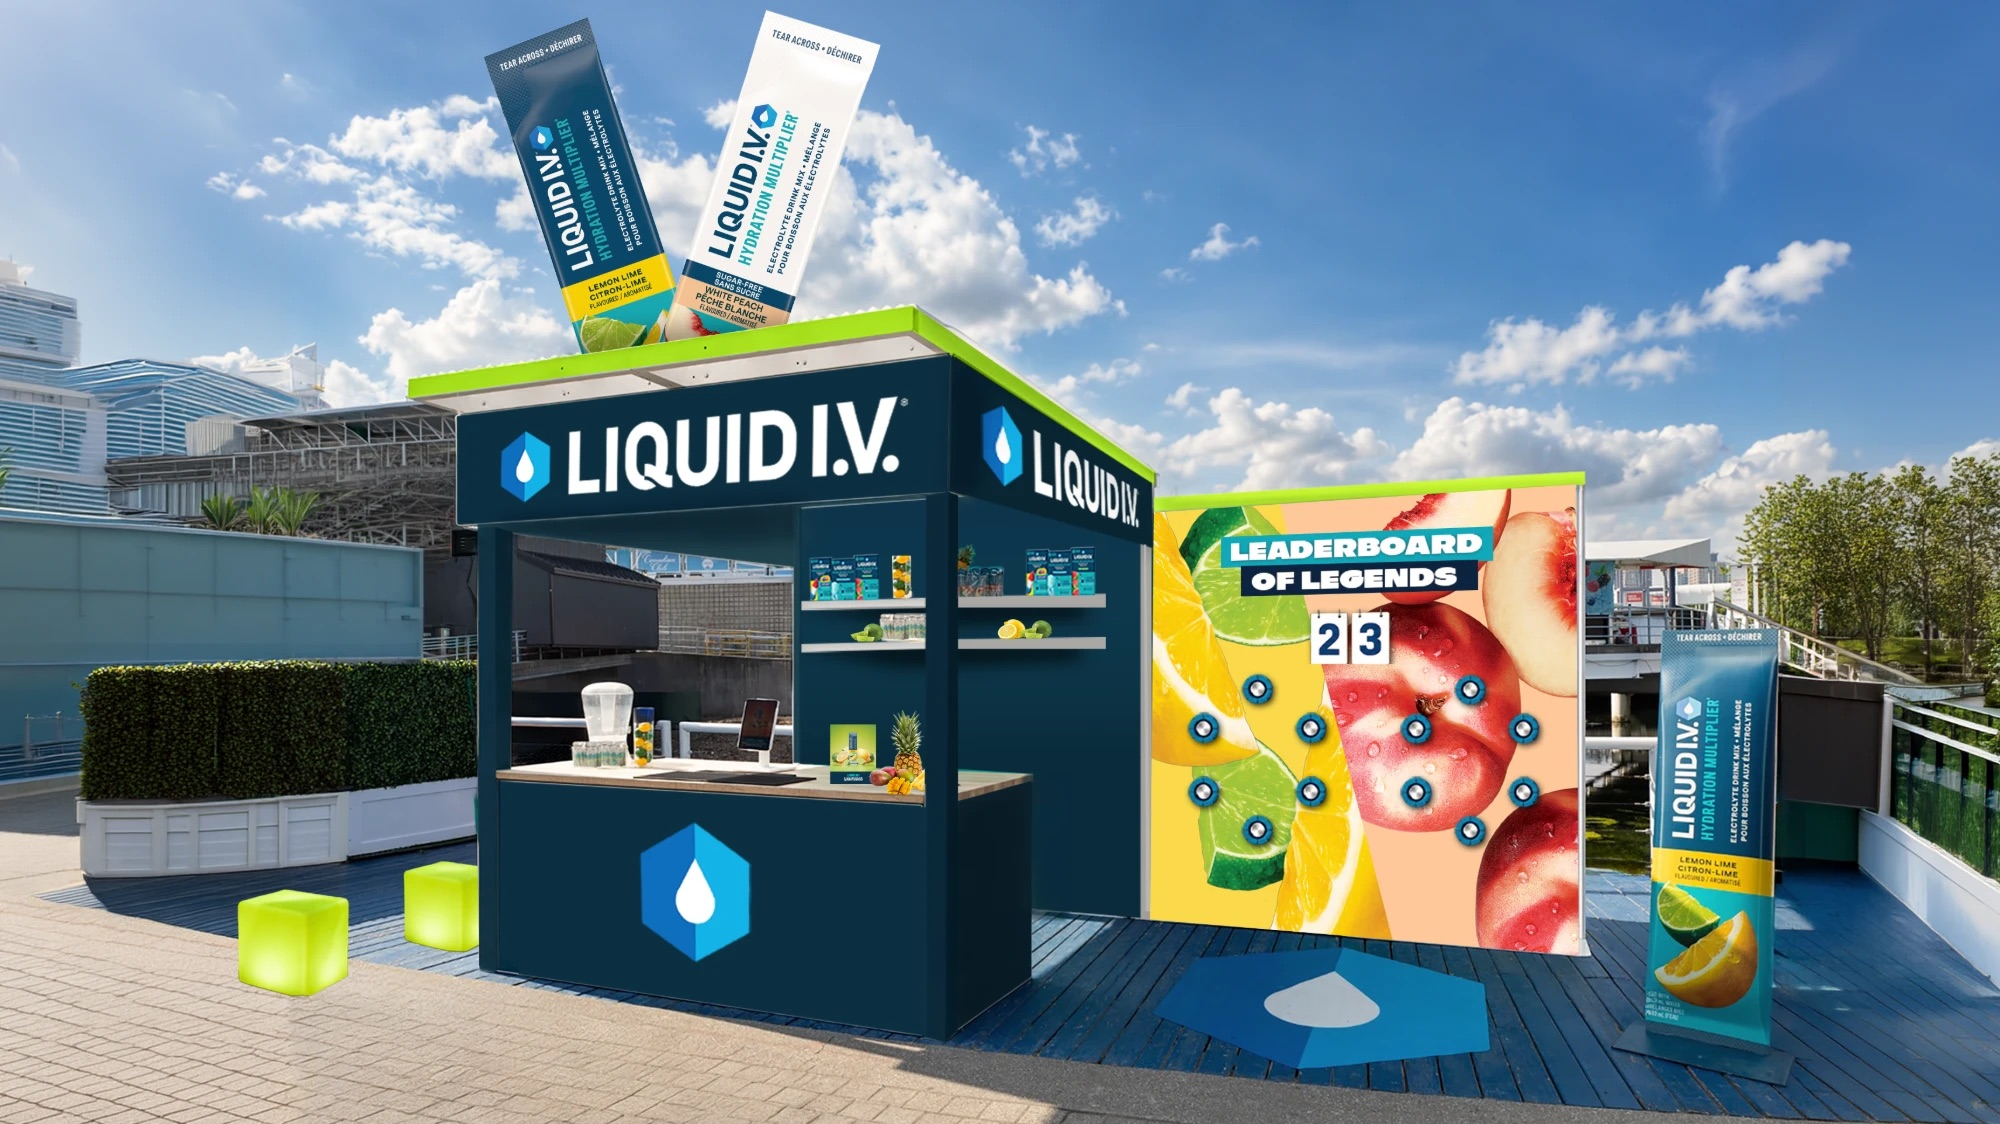
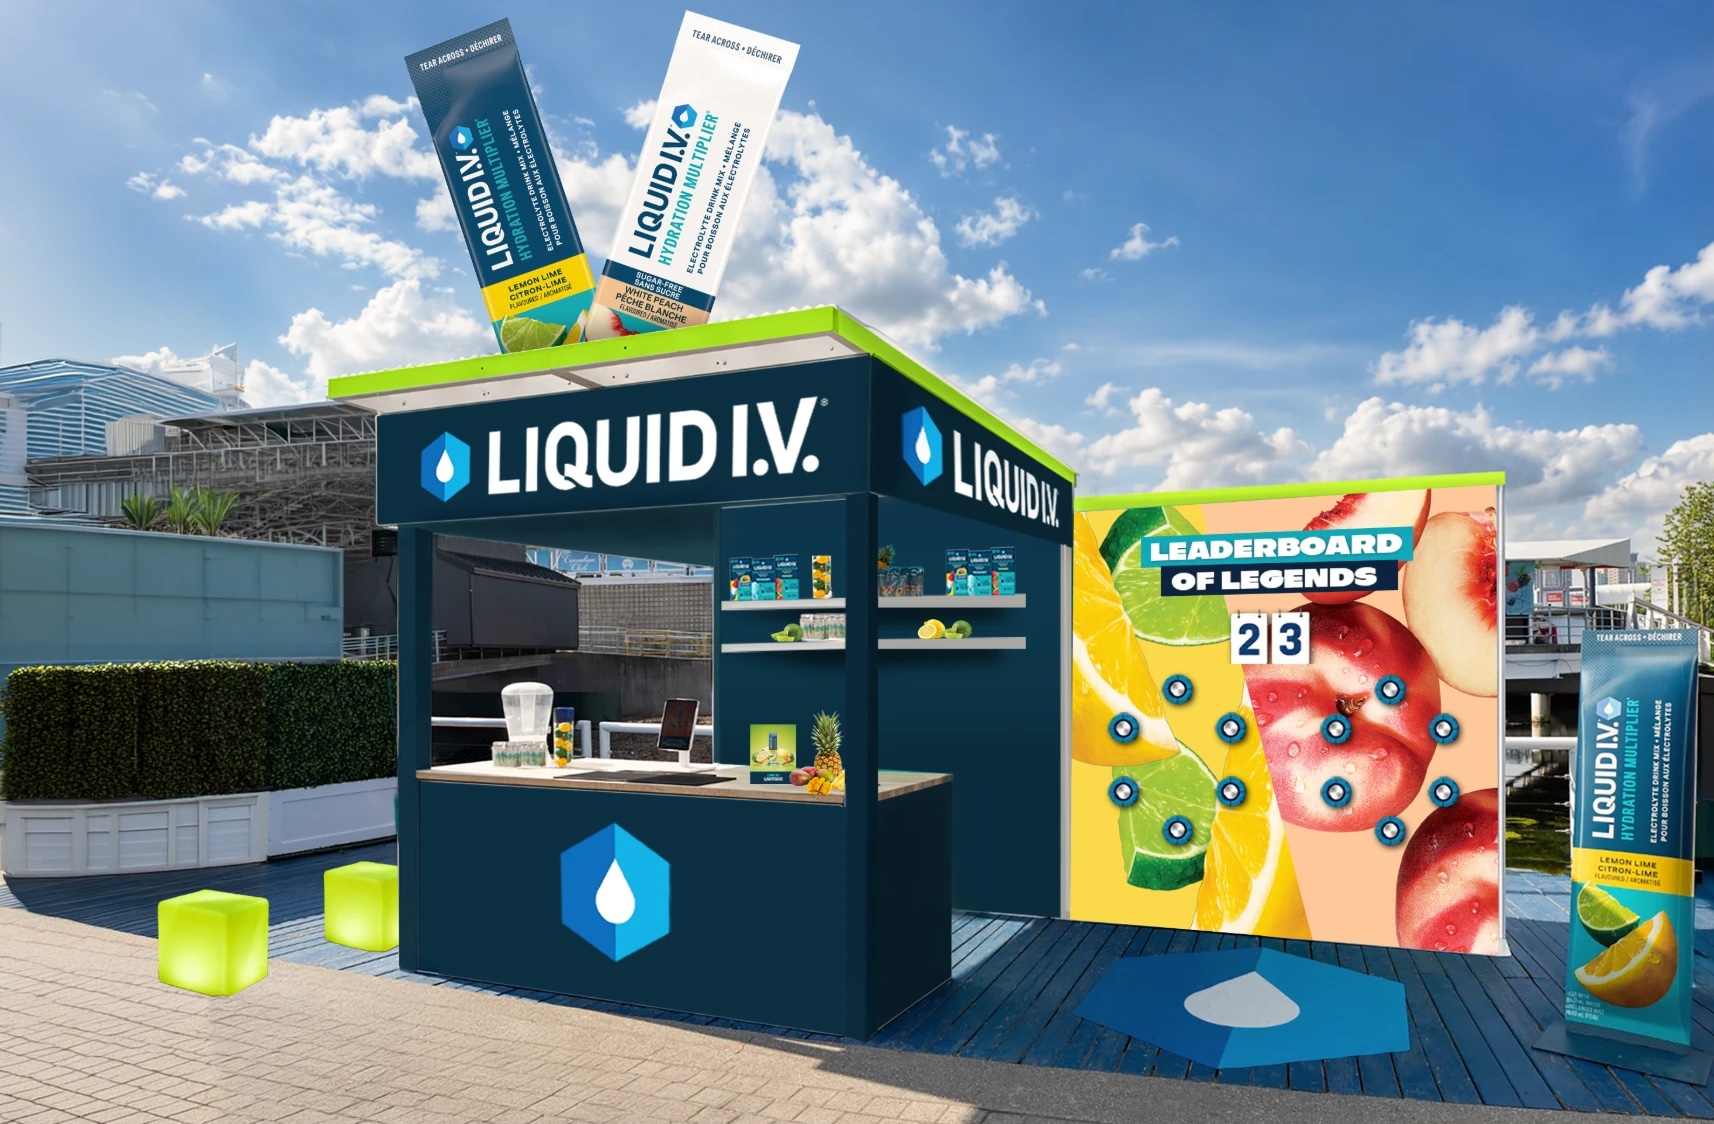
Agency + Client Work: tighter crops on the Powerade and Liquid I.V. images

diff --git a/agency-client-work.html b/agency-client-work.html
@@ -389,11 +389,11 @@
 
   <!-- Floating tiles: positions and sizes are set in TILES in _build/build.rb -->
   <div class="field">
-<div class="ft" style="--l:5%; --t:4vw; --w:30vw; --h:16.80vw; --ar:1.786; --tone:#c4c4c4; --ox:0%; --cx:0; --cy:1; --dur:6s; --del:-0s; --dx:-8px; --dy:12px">
+<div class="ft" style="--l:5%; --t:4vw; --w:30vw; --h:18.39vw; --ar:1.631; --tone:#c4c4c4; --ox:0%; --cx:0; --cy:1; --dur:6s; --del:-0s; --dx:-8px; --dy:12px">
   <div class="pic" style="background-image:url('images/agency/powerade-tent.jpg')" role="img" aria-label="Powerade Power Water"></div>
   <div class="cap"><b>Powerade Power Water</b><p>Lorem ipsum dolor sit amet, consectetur adipiscing elit. Sed do eiusmod tempor incididunt ut labore et dolore magna aliqua.</p></div>
 </div>
-<div class="ft r" style="--l:62%; --t:2vw; --w:19vw; --h:13.97vw; --ar:1.360; --tone:#bdbdbd; --ox:50%; --cx:-.225; --cy:1; --dur:8s; --del:-3s; --dx:6px; --dy:-10px">
+<div class="ft r" style="--l:64%; --t:2vw; --w:15vw; --h:14.59vw; --ar:1.028; --tone:#bdbdbd; --ox:50%; --cx:-.225; --cy:1; --dur:8s; --del:-3s; --dx:6px; --dy:-10px">
   <div class="pic" style="background-image:url('images/agency/powerade-sign.jpg')" role="img" aria-label="Powerade Power Water"></div>
   <div class="cap"><b>Powerade Power Water</b><p>Lorem ipsum dolor sit amet, consectetur adipiscing elit. Sed do eiusmod tempor incididunt ut labore et dolore magna aliqua.</p></div>
 </div>
@@ -413,7 +413,7 @@
   <div class="pic" style="background-image:url('images/agency/tresemme.jpg')" role="img" aria-label="TRESemmé"></div>
   <div class="cap"><b>TRESemmé</b><p>Lorem ipsum dolor sit amet, consectetur adipiscing elit. Sed do eiusmod tempor incididunt ut labore et dolore magna aliqua.</p></div>
 </div>
-<div class="ft r" style="--l:69%; --t:78vw; --w:23vw; --h:15.33vw; --ar:1.500; --tone:#c9c9c9; --ox:100%; --cx:-.45; --cy:1; --dur:8s; --del:-4s; --dx:-5px; --dy:16px">
+<div class="ft r" style="--l:69%; --t:78vw; --w:23vw; --h:17.35vw; --ar:1.325; --tone:#c9c9c9; --ox:100%; --cx:-.45; --cy:1; --dur:8s; --del:-4s; --dx:-5px; --dy:16px">
   <div class="pic" style="background-image:url('images/agency/liquid-iv-kiosk.jpg')" role="img" aria-label="Liquid I.V."></div>
   <div class="cap"><b>Liquid I.V.</b><p>Lorem ipsum dolor sit amet, consectetur adipiscing elit. Sed do eiusmod tempor incididunt ut labore et dolore magna aliqua.</p></div>
 </div>
@@ -421,7 +421,7 @@
   <div class="pic" style="background-image:url('images/agency/liquid-iv-headliner.jpg')" role="img" aria-label="Liquid I.V."></div>
   <div class="cap"><b>Liquid I.V.</b><p>Lorem ipsum dolor sit amet, consectetur adipiscing elit. Sed do eiusmod tempor incididunt ut labore et dolore magna aliqua.</p></div>
 </div>
-<div class="ft r" style="--l:39%; --t:106vw; --w:26vw; --h:14.61vw; --ar:1.779; --tone:#c4c4c4; --ox:50%; --cx:-.225; --cy:1; --dur:7s; --del:-3s; --dx:-8px; --dy:12px">
+<div class="ft r" style="--l:39%; --t:106vw; --w:26vw; --h:17.05vw; --ar:1.525; --tone:#c4c4c4; --ox:50%; --cx:-.225; --cy:1; --dur:7s; --del:-3s; --dx:-8px; --dy:12px">
   <div class="pic" style="background-image:url('images/agency/liquid-iv-booth-render.jpg')" role="img" aria-label="Liquid I.V."></div>
   <div class="cap"><b>Liquid I.V.</b><p>Lorem ipsum dolor sit amet, consectetur adipiscing elit. Sed do eiusmod tempor incididunt ut labore et dolore magna aliqua.</p></div>
 </div>

diff --git a/_build/build.rb b/_build/build.rb
@@ -459,15 +459,15 @@ end
 LOREM = 'Lorem ipsum dolor sit amet, consectetur adipiscing elit. Sed do eiusmod tempor incididunt ut labore et dolore magna aliqua.'
 TILES = [
   # [left %, top vw, width vw, picture (in images/agency), width px, height px, title, description]
-  [ 5,   4, 30, 'powerade-tent.jpg',          2000, 1120, 'Powerade Power Water'],
-  [62,   2, 19, 'powerade-sign.jpg',          1104,  812, 'Powerade Power Water'],
+  [ 5,   4, 30, 'powerade-tent.jpg',          1680, 1030, 'Powerade Power Water'],
+  [64,   2, 15, 'powerade-sign.jpg',           740,  720, 'Powerade Power Water'],
   [41,  24, 13, 'welchs-grape.jpg',            580,  870, "Welch's Real PB&Js"],
   [73,  34, 13, 'welchs-mixed-fruit.jpg',      580,  870, "Welch's Real PB&Js"],
   [ 9,  44, 13, 'welchs-strawberry.jpg',       580,  870, "Welch's Real PB&Js"],
   [31,  60, 28, 'tresemme.jpg',               2000, 1127, 'TRESemmé'],
-  [69,  78, 23, 'liquid-iv-kiosk.jpg',        2000, 1333, 'Liquid I.V.'],
+  [69,  78, 23, 'liquid-iv-kiosk.jpg',        1275,  962, 'Liquid I.V.'],
   [ 5,  90, 27, 'liquid-iv-headliner.jpg',    2000, 1125, 'Liquid I.V.'],
-  [39, 106, 26, 'liquid-iv-booth-render.jpg', 2000, 1124, 'Liquid I.V.'],
+  [39, 106, 26, 'liquid-iv-booth-render.jpg', 1714, 1124, 'Liquid I.V.'],
   [74, 114, 15, 'good-company-halloween.jpg',  920, 1654, 'Good Company Productions'],
   [ 8, 130, 20, 'saturn-character-sides.jpg',      1600, 1566, 'SATurn'],
   [42, 140, 20, 'saturn-character-top-bottom.jpg', 1600, 1566, 'SATurn'],
